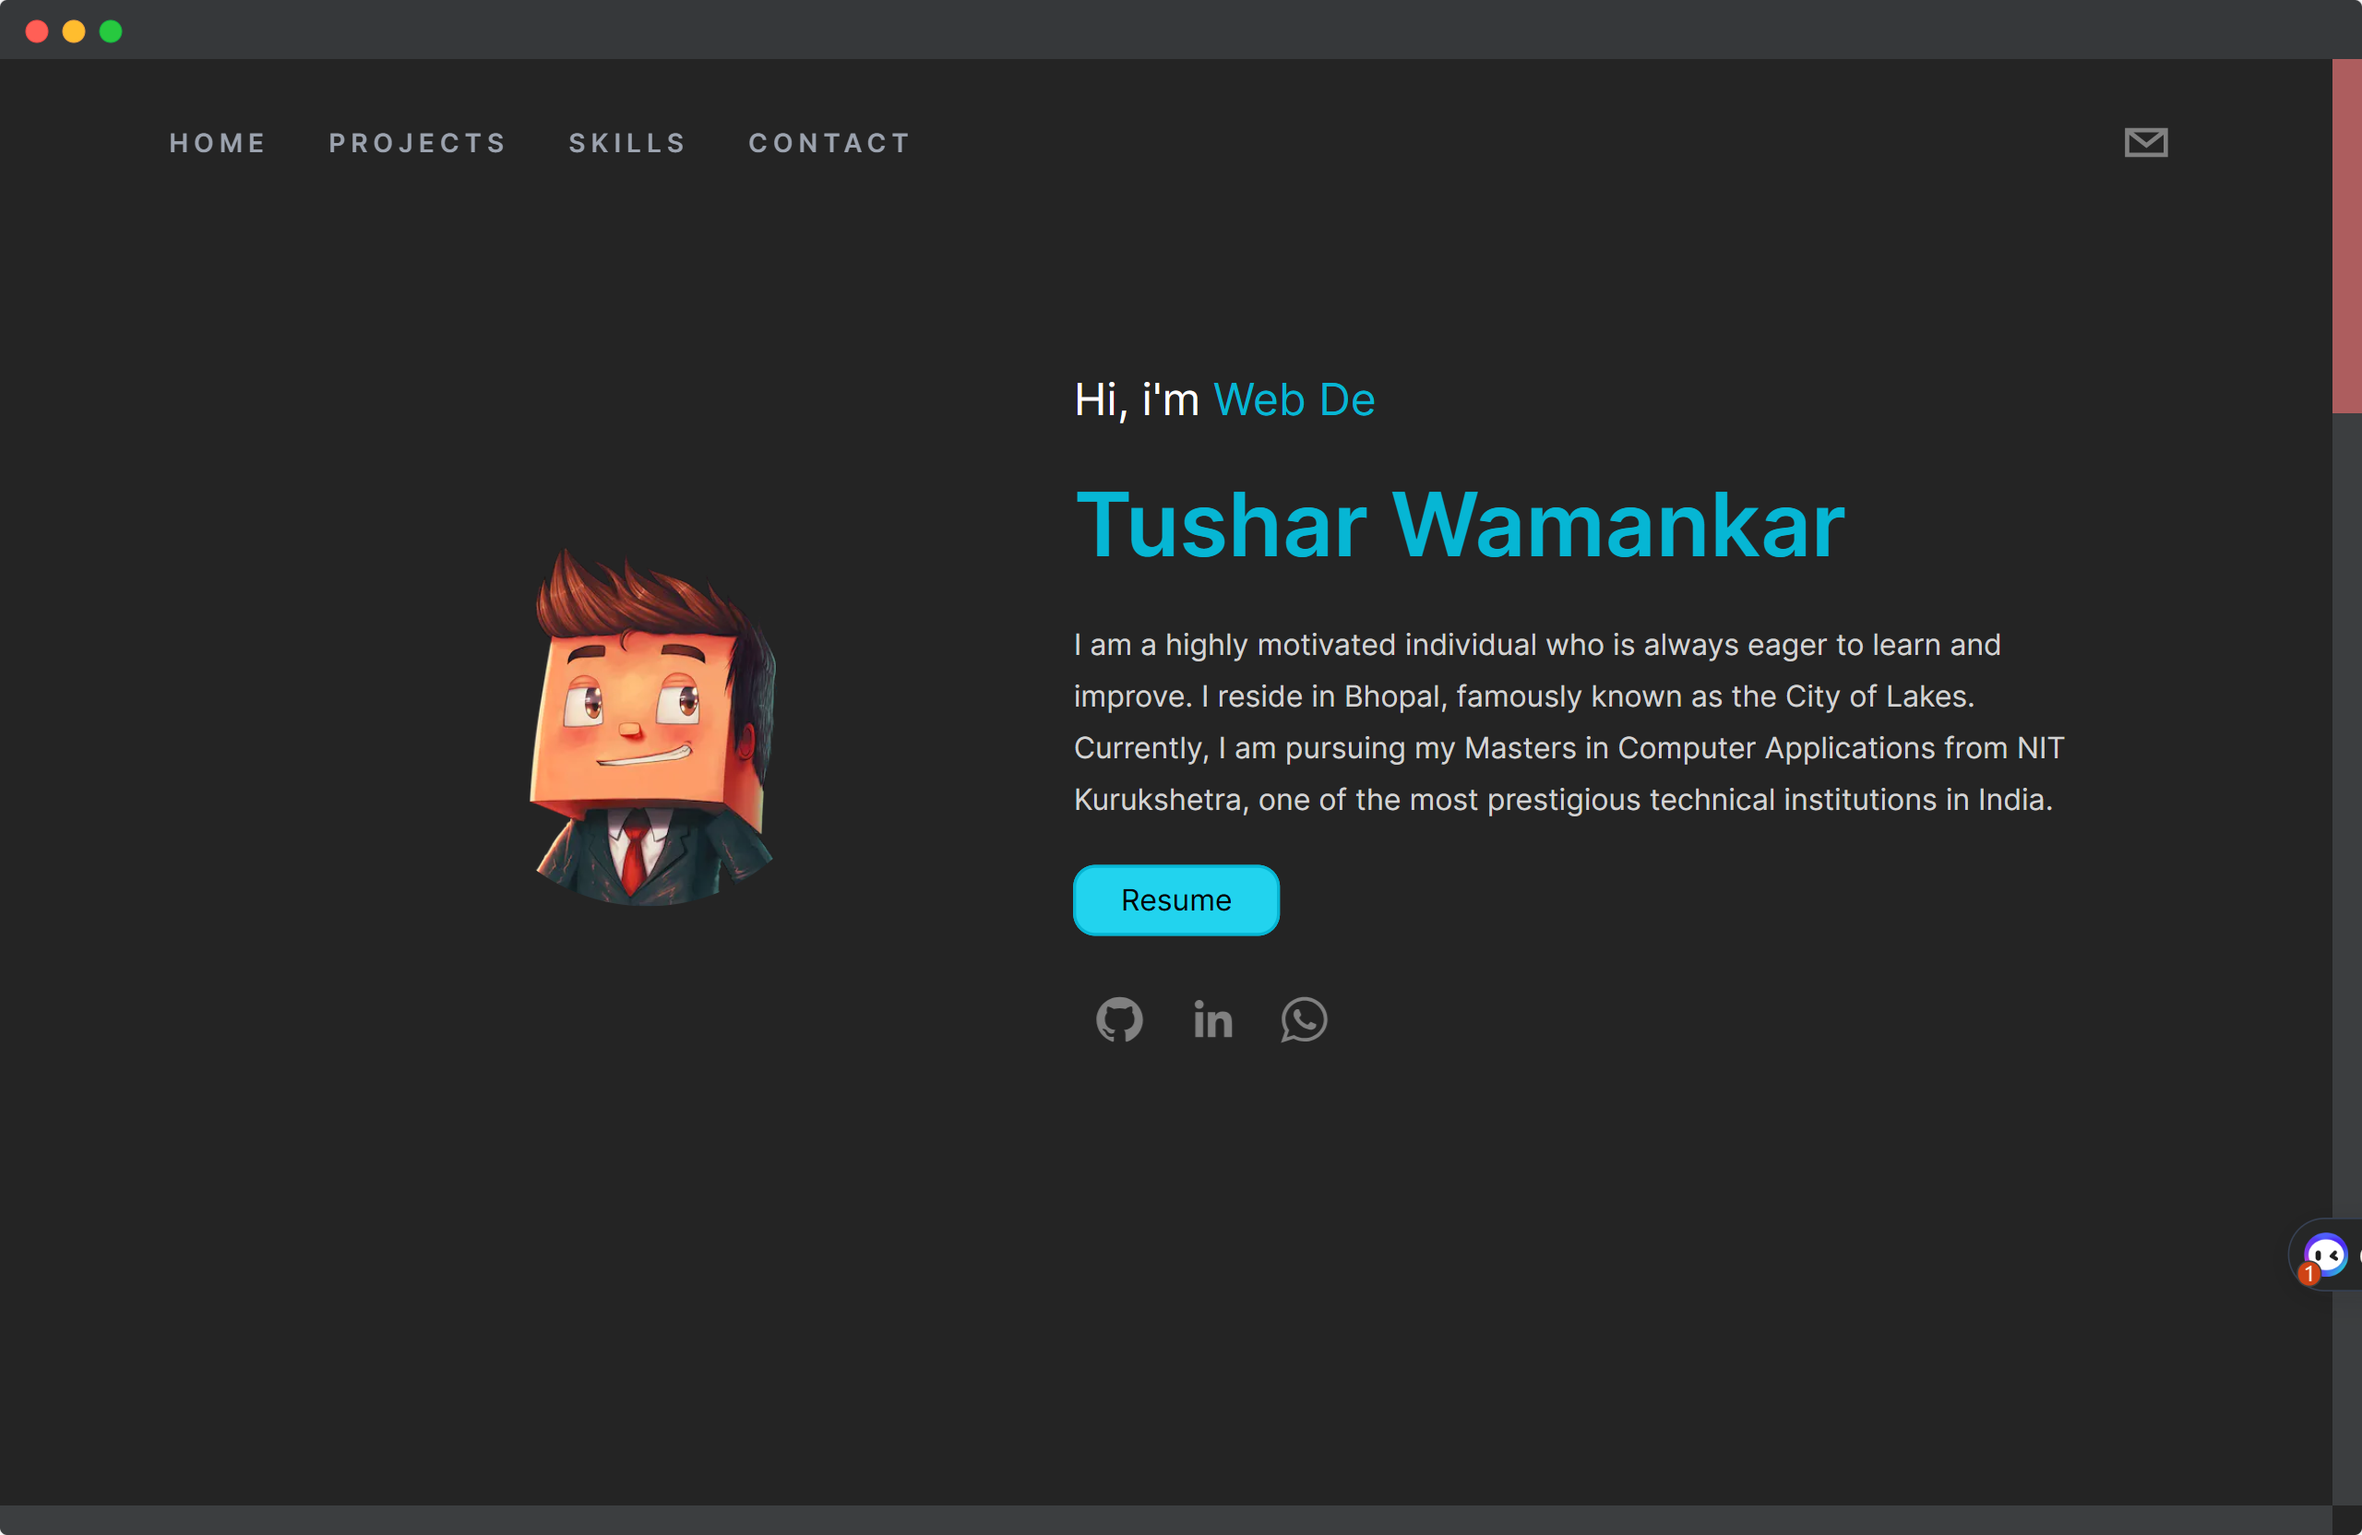
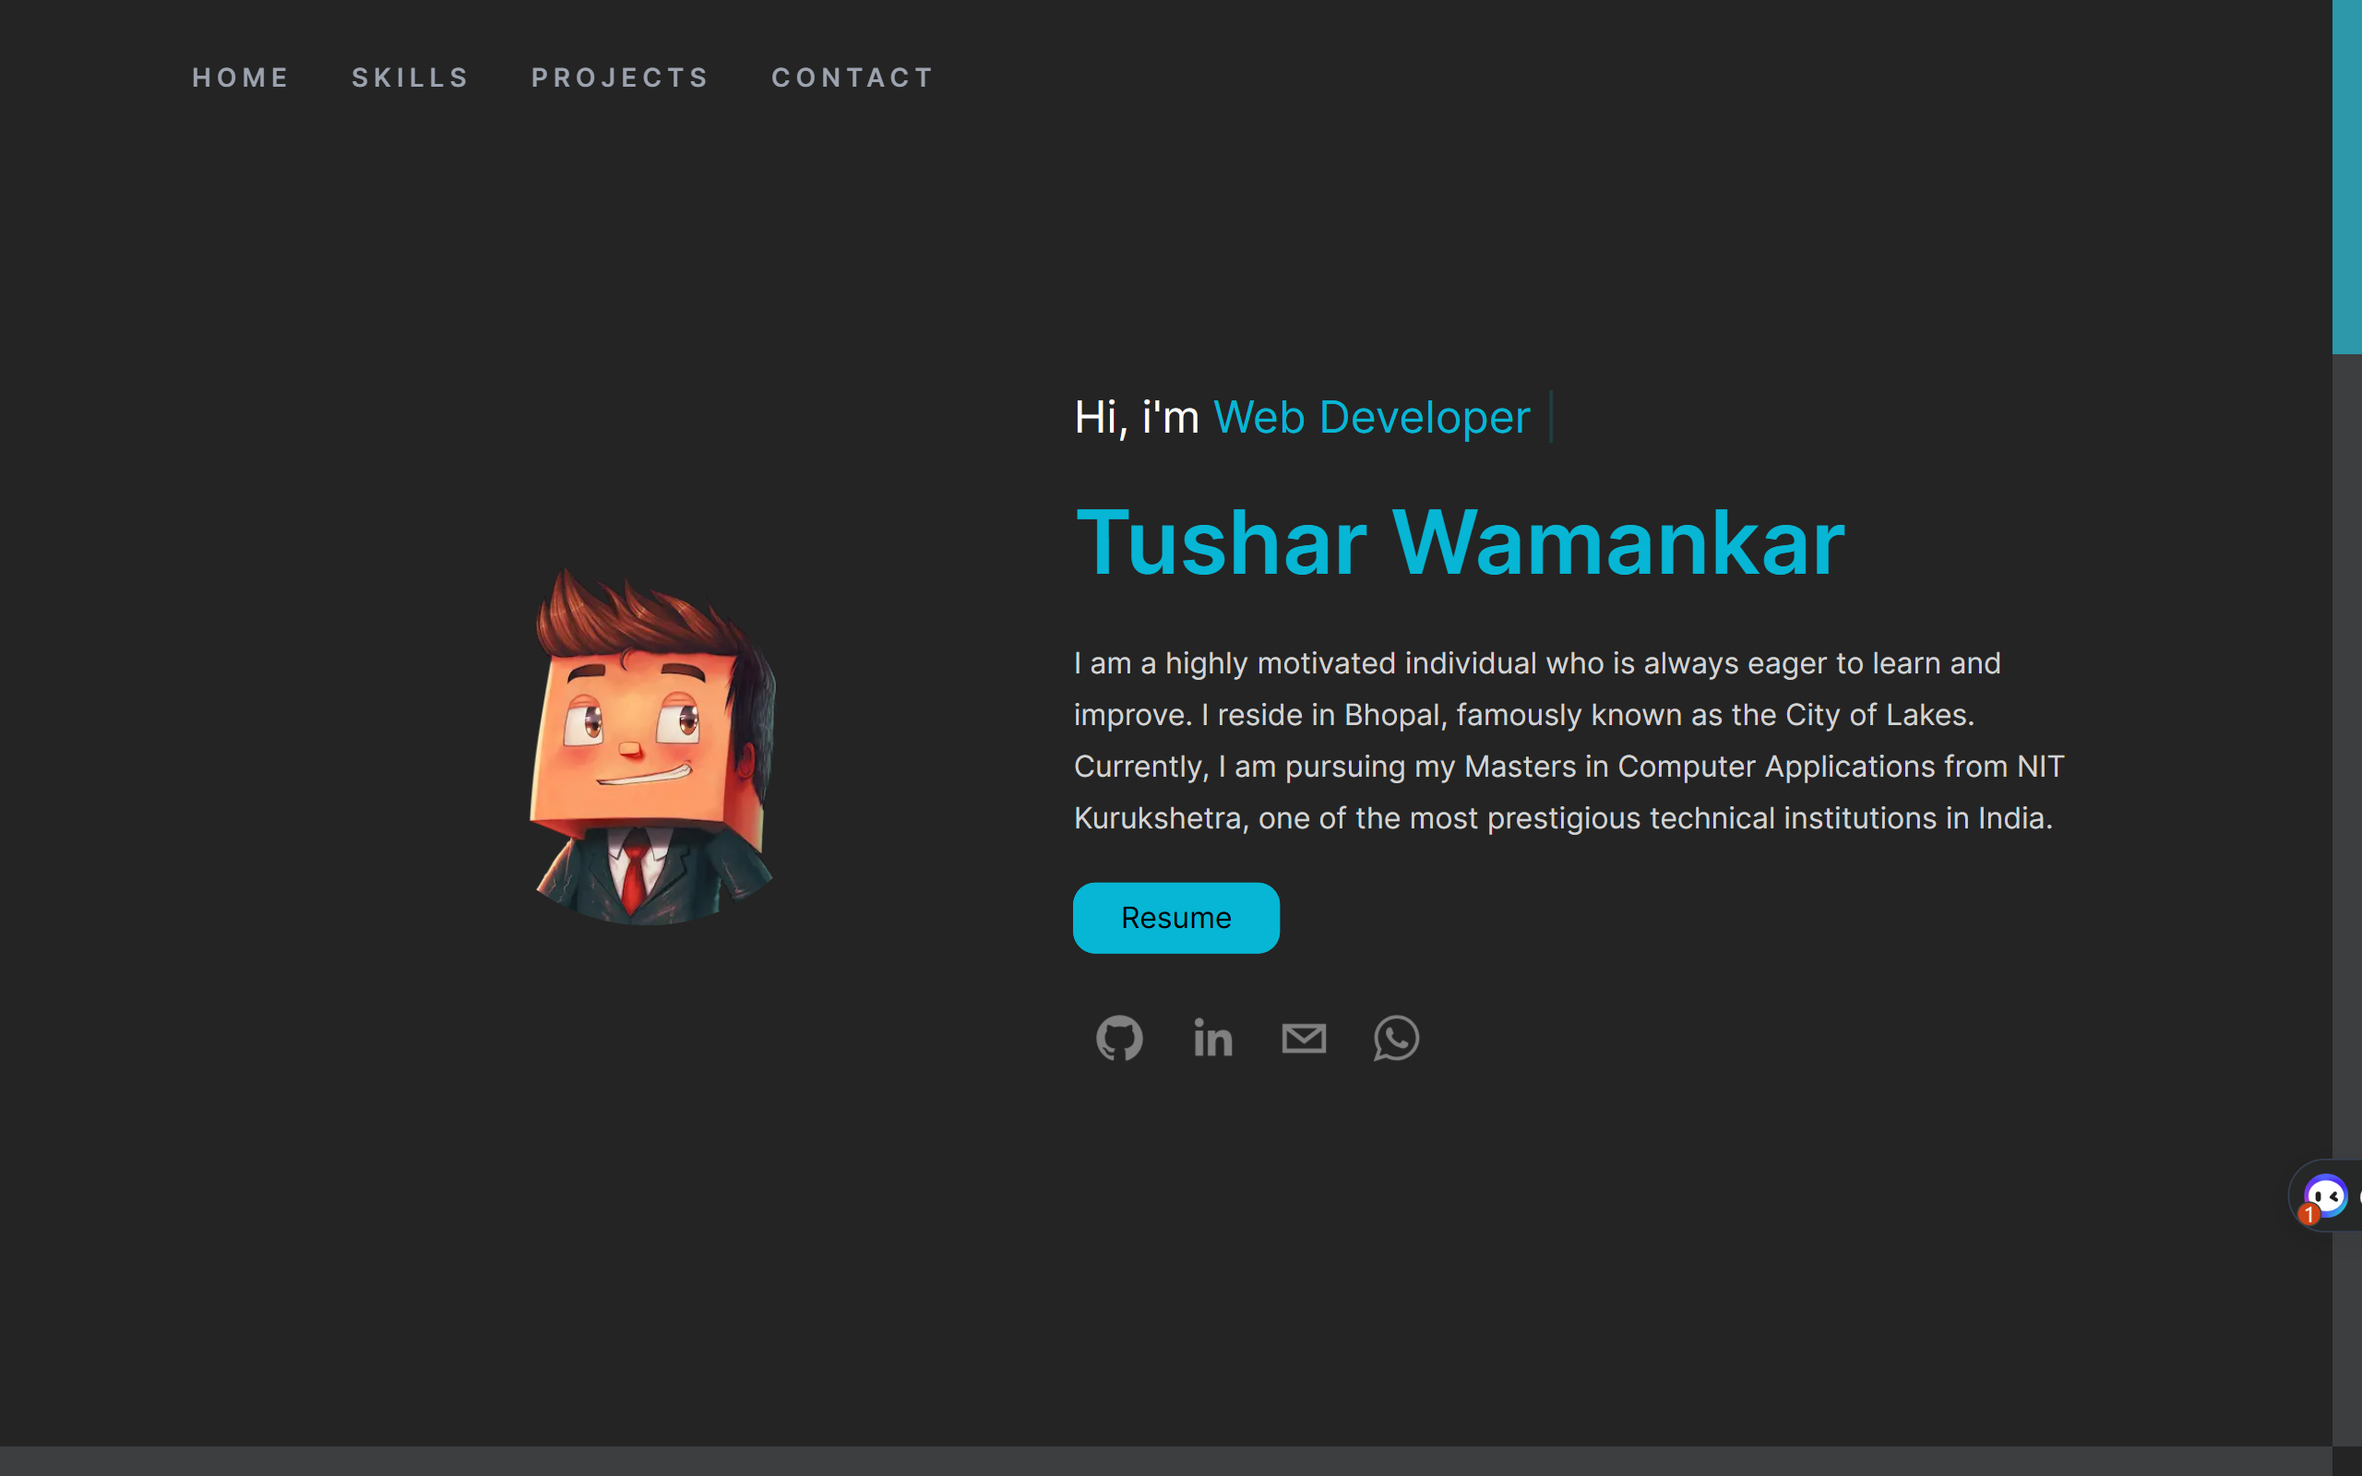
1st

diff --git a/components/Hero.tsx b/components/Hero.tsx
@@ -13,11 +13,47 @@ const Hero = (props: Props) => {
     delaySpeed: 2000,
   });
   return (
-    <header className="h-screen">
-      <nav className="sticky top-0 flex justify-between max-w-6xl mx-auto p-8">
+    <div className="flex flex-col md:flex-row items-center md:my-12 justify-around max-w-5xl mx-auto text-center my-auto h-screen">
+      <div className="flex items-center justify-center mx-32">
+        {/* image */}
+        <Image
+          src="/avatar.png"
+          height={300}
+          width={300}
+          alt="avatar"
+          className="rounded-full mt-16 p-4 md:mt-0 md:p-0"
+        />
+      </div>
+      <div className="flex flex-col gap-7 w-4/5 text-left">
+        {/* description */}
+        <h3 className="text-2xl">
+          Hi, i&apos;m{" "}
+          <span className="text-cyan-500">
+            {text} <span className="animate-ping">|</span>{" "}
+          </span>
+        </h3>
+        <h1 className="text-5xl font-semibold text-cyan-500">
+          Tushar Wamankar
+        </h1>
+        <p className="text-white/80 leading-7">
+          I am a highly motivated individual who is always eager to learn and
+          improve. I reside in Bhopal, famously known as the City of Lakes.
+          Currently, I am pursuing my Masters in Computer Applications from NIT
+          Kurukshetra, one of the most prestigious technical institutions in
+          India.
+        </p>
+        <div className="">
+          <a
+            href="My_Resume.pdf"
+            target="#"
+            className="bg-cyan-500 px-6 py-2 border-2 border-cyan-500 rounded-xl text-black cursor-pointer hover:bg-[#242424] hover:text-white duration-300"
+          >
+            Resume
+          </a>
+        </div>
         <motion.div
           initial={{
-            x: -500,
+            x: 500,
             opacity: 0,
             scale: 0.5,
           }}
@@ -29,123 +65,41 @@ const Hero = (props: Props) => {
           transition={{
             duration: 1,
           }}
-          className="social flex items-center"
+          className="flex items-center"
         >
-          <a
-            href="#about"
-            className="navbar-icons"
-          >
-            Home
-          </a>
-          <a
-            href="#skills"
-            className="mx-4 uppercase tracking-[3px] text-gray-400 font-semibold text-sm hover:text-cyan-400"
-          >
-            Skills
-          </a>
-          <a
-            href="#projects"
-            className="mx-4 uppercase tracking-[3px] text-gray-400 font-semibold text-sm hover:text-cyan-400"
-          >
-            Projects
-          </a>
-          <a
-            href="#contact"
-            className="mx-4 uppercase tracking-[3px] text-gray-400 font-semibold text-sm hover:text-cyan-400"
-          >
-            Contact
-          </a>
-        </motion.div>
-        <motion.div></motion.div>
-      </nav>
-      <div className="flex flex-col md:flex-row items-center md:my-12 justify-around max-w-5xl mx-auto text-center h-4/6">
-        <div className="flex items-center justify-center mx-32">
-          {/* image */}
-          <Image
-            src="/avatar.png"
-            height={300}
-            width={300}
-            alt="avatar"
-            className="rounded-full hidden md:flex"
-          />
-        </div>
-        <div className="flex flex-col gap-7 w-4/5 text-left">
-          {/* description */}
-          <h3 className="text-2xl">
-            Hi, i&apos;m <span className="text-cyan-500">{text}</span>
-          </h3>
-          <h1 className="text-5xl font-semibold text-cyan-500">
-            Tushar Wamankar
-          </h1>
-          <p className="text-white/80 leading-7">
-            I am a highly motivated individual who is always eager to learn and
-            improve. I reside in Bhopal, famously known as the City of Lakes.
-            Currently, I am pursuing my Masters in Computer Applications from
-            NIT Kurukshetra, one of the most prestigious technical institutions
-            in India.
-          </p>
-          <div className="">
-            <a
-              href="My_Resume.pdf"
-              target="#"
-              className="bg-cyan-500 px-6 py-2 border-2 border-cyan-500 rounded-xl text-black cursor-pointer hover:bg-[#242424] hover:text-white duration-300"
-            >
-              Resume
-            </a>
-          </div>
-          <motion.div
-            initial={{
-              x: 500,
-              opacity: 0,
-              scale: 0.5,
-            }}
-            animate={{
-              x: 0,
-              opacity: 1,
-              scale: 1,
-            }}
-            transition={{
-              duration: 1,
-            }}
-            className="flex items-center"
-          >
-            <SocialIcon
-              url="https://github.com/tusharwamankar"
-              bgColor="transparent"
-              fgColor="gray"
-              className="social-icons"
-            ></SocialIcon>
-            <SocialIcon
-              url="https://www.linkedin.com/in/tushar-wamankar-430090216/"
-              bgColor="transparent"
-              fgColor="gray"
-              className="social-icons"
-            ></SocialIcon>
-            <SocialIcon
-              network="email"
-              url="mailto:tusharwamankar10@gmail.com"
-              fgColor="gray"
-              className="social-icons"
-              bgColor="transparent"
-            ></SocialIcon>
-            <SocialIcon
-              url="https://api.whatsapp.com/send/?phone=917049258342&text&type=phone_number&app_absent=0"
-              bgColor="transparent"
-              fgColor="gray"
-              className="social-icons"
-            ></SocialIcon>
-            {/* <SocialIcon
+          <SocialIcon
+            url="https://github.com/tusharwamankar"
+            bgColor="transparent"
+            fgColor="gray"
+            className="social-icons"
+          ></SocialIcon>
+          <SocialIcon
+            url="https://www.linkedin.com/in/tushar-wamankar-430090216/"
+            bgColor="transparent"
+            fgColor="gray"
+            className="social-icons"
+          ></SocialIcon>
+          <SocialIcon
+            network="email"
+            url="mailto:tusharwamankar10@gmail.com"
+            fgColor="gray"
+            className="social-icons"
+            bgColor="transparent"
+          ></SocialIcon>
+          <SocialIcon
+            url="https://api.whatsapp.com/send/?phone=917049258342&text&type=phone_number&app_absent=0"
+            bgColor="transparent"
+            fgColor="gray"
+            className="social-icons"
+          ></SocialIcon>
+          {/* <SocialIcon
               url="https://www.instagram.com/__rahsut__/"
               bgColor="transparent"
               fgColor="gray"
             ></SocialIcon> */}
-          </motion.div>
-        </div>
+        </motion.div>
       </div>
-      {/* <div className="flex gap-8 justify-center mt-20 flex-wrap">
-        
-      </div> */}
-    </header>
+    </div>
   );
 };
 

diff --git a/components/Projects.tsx b/components/Projects.tsx
@@ -6,11 +6,11 @@ type Props = {};
 const Projects = (props: Props) => {
   return (
     <div className="h-screen flex relative flex-col text-center px-10 mx-auto items-center justify-evenly ">
-      <h3 className="mt-12 uppercase tracking-[15px] font-semibold text-gray-400 text-xl ">
+      <h3 className="mt-24 uppercase tracking-[15px] font-semibold text-gray-400 text-xl ">
         Projects
       </h3>
       {/* <div className="w-full absolute top-[30%] bg-cyan-500/10 h-[380px] -skew-y-12"></div> */}
-      <div className="w-full flex overflow-x-scroll overflow-y-hidden snap-x snap-mandatory md:scrollbar md:scrollbar-track-gray-400/20 md:scrollbar-thumb-red-400/60 h-screen">
+      <div className="w-full flex overflow-x-scroll overflow-y-hidden snap-x snap-mandatory md:scrollbar md:scrollbar-track-gray-400/20 md:scrollbar-thumb-cyan-400/60 h-screen">
         <div className="flex flex-col w-screen flex-shrink-0 snap-center justify-center items-center text-center gap-5 p-12">
           <Image
             src="/portfolio-home.png"

diff --git a/components/Contact.tsx b/components/Contact.tsx
@@ -18,12 +18,12 @@ const Contact = (props: Props) => {
   };
 
   return (
-    <div className="h-screen flex flex-col text-center max-w-6xl px-10 mx-auto items-center justify-evenly">
+    <div className="h-screen relative flex flex-col text-center max-w-6xl px-10 mx-auto items-center justify-evenly">
       {/* <h3 className="mt-12 uppercase tracking-[15px] font-semibold text-gray-400 text-xl ">
         Contact
       </h3> */}
       <div className="flex flex-col space-y-10 ">
-        <h4 className="text-2xl my-4">
+        <h4 className="text-2xl mt-8">
           Let&apos;s <span className="text-cyan-500">Talk</span>
         </h4>
       </div>
@@ -77,12 +77,7 @@ const Contact = (props: Props) => {
           Submit
         </button>
       </form>
-      <a
-        href="#about"
-        className=" mx-4 uppercase tracking-[3px] text-[#242424] border-2 border-[#242424] hover:border-cyan-600 rounded-3xl px-4 py-2 font-semibold text-sm hover:text-cyan-400"
-      >
-        Home
-      </a>
+      
     </div>
   );
 };

diff --git a/src/app/page.tsx b/src/app/page.tsx
@@ -1,20 +1,21 @@
-"use client"
+"use client";
 import Contact from "../../components/Contact";
+import Header from "../../components/Header";
 import Hero from "../../components/Hero";
 import Projects from "../../components/Projects";
 import Skills from "../../components/Skills";
 
-
 export default function Home() {
   return (
-    <div className="bg-[rgb(36,36,36)] h-screen snap-y snap-mandatory overflow-scroll text-whilte md:scrollbar md:scrollbar-track-gray-400/20 md:scrollbar-thumb-red-400/60">
+    <div className="bg-[rgb(36,36,36)] h-screen snap-y snap-mandatory overflow-scroll text-whilte md:scrollbar md:scrollbar-track-gray-400/20 md:scrollbar-thumb-cyan-400/60">
+      <Header />
+
       <section id="about" className="snap-start">
         <Hero />
       </section>
-
-      <section id="skills" className="snap-center">
+      {/* <section id="skills" className="snap-center">
         <Skills />
-      </section>
+      </section> */}
 
       <section id="projects" className="snap-center">
         <Projects />

diff --git a/components/Header.tsx b/components/Header.tsx
@@ -1,0 +1,43 @@
+import React from "react";
+import { motion } from "framer-motion";
+
+type Props = {};
+
+const Header = (props: Props) => {
+  return (
+    <header className="sticky top-0 flex justify-between max-w-6xl mx-auto p-8 z-20">
+      <motion.div
+        initial={{
+          x: -500,
+          opacity: 0,
+          scale: 0.5,
+        }}
+        animate={{
+          x: 0,
+          opacity: 1,
+          scale: 1,
+        }}
+        transition={{
+          duration: 1,
+        }}
+        className="social flex items-center"
+      >
+        <a href="#about" className="navbar-icons">
+          Home
+        </a>
+        {/* <a href="#skills" className="navbar-icons">
+          Skills
+        </a> */}
+        <a href="#projects" className="navbar-icons">
+          Projects
+        </a>
+        <a href="#contact" className="navbar-icons">
+          Contact
+        </a>
+      </motion.div>
+      <motion.div></motion.div>
+    </header>
+  );
+};
+
+export default Header;

diff --git a/components/Skills.tsx b/components/Skills.tsx
@@ -2,7 +2,13 @@ import React from "react";
 import UseAnimations from "react-useanimations";
 import menu from "react-useanimations/lib/menu2";
 import { AiFillHtml5 } from "react-icons/ai";
-import { BiSolidFileCss, BiLogoJavascript, BiLogoPython, BiLogoReact, BiLogoTailwindCss } from "react-icons/bi";
+import {
+  BiSolidFileCss,
+  BiLogoJavascript,
+  BiLogoPython,
+  BiLogoReact,
+  BiLogoTailwindCss,
+} from "react-icons/bi";
 import { TbBrandCpp, TbBrandVscode } from "react-icons/tb";
 import { PiFileSqlDuotone } from "react-icons/pi";
 
@@ -24,7 +30,6 @@ const Skills = (props: Props) => {
         <PiFileSqlDuotone size={56} />
         <BiLogoReact size={56} />
         <TbBrandVscode size={56} />
-
       </div>
     </div>
   );

diff --git a/src/app/globals.css b/src/app/globals.css
@@ -30,8 +30,8 @@ body {
   @apply cursor-pointer border-[#242424] hover:border-2;
 }
 .navbar-icons {
-  @apply mx-4 uppercase tracking-[3px] text-gray-400 font-semibold text-sm hover:text-cyan-400;
-}
+  @apply mx-4 uppercase tracking-[3px] text-gray-400 font-semibold text-sm hover:text-cyan-400 duration-150;
+} 
 .contact-icons {
   @apply h-[30px] text-cyan-500 animate-pulse;
 }
